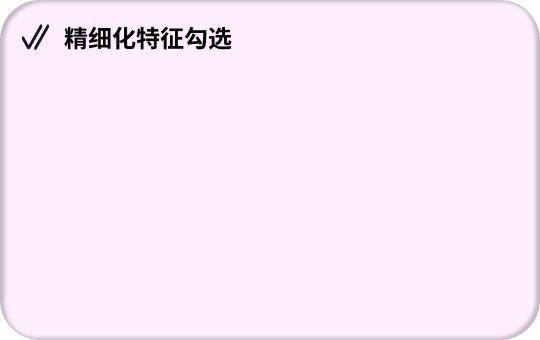
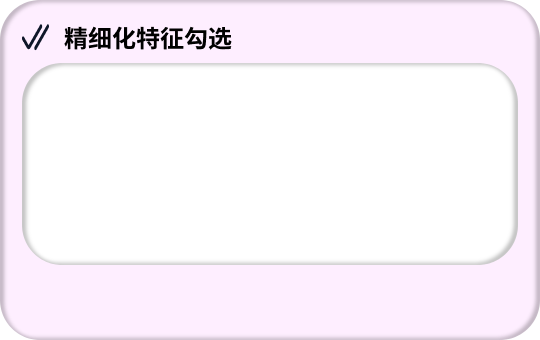
修改

diff --git a/core/UI/panel/extraction_panel.py b/core/UI/panel/extraction_panel.py
@@ -150,7 +150,7 @@ class FeatureExtractionPanel(tk.Frame):
         self.file_path_text_id = self.canvas.create_text(
             518 + self.offset_x, 31 + 55//2,
             text="",
-            font=("微软雅黑", 11),
+            font=("Segoe UI", 11, "bold"),
             fill="#333333",
             anchor="w",
             width=840
@@ -176,7 +176,7 @@ class FeatureExtractionPanel(tk.Frame):
         self.status_text_id = self.canvas.create_text(
             869 + 553//2 + self.offset_x, 400 + 129//2,
             text="请上传数据文件...",
-            font=("微软雅黑", 12),
+            font=("Segoe UI", 12, "bold"),
             fill="#333333",
             width=500,
             anchor="center"
@@ -261,8 +261,8 @@ class FeatureExtractionPanel(tk.Frame):
         self.check_canvas.create_window((0 + self.offset_x, 0), window=self.check_frame, anchor="nw", tags="inner_frame")
 
         # 将 Canvas 和滚动条嵌入主 Canvas
-        self.canvas.create_window(320 + self.offset_x, 256, window=self.check_canvas, anchor="nw", width=440, height=200)
-        self.canvas.create_window(320 + self.offset_x + 440, 256, window=self.check_scrollbar, anchor="nw", width=20, height=200)
+        self.canvas.create_window(331 + self.offset_x, 268, window=self.check_canvas, anchor="nw", width=462, height=166)
+        self.canvas.create_window(331 + self.offset_x + 440, 268, window=self.check_scrollbar, anchor="nw", width=20, height=166)
 
         # 绑定内部 Frame 大小变化以更新滚动区域
         def configure_inner_frame(event):
@@ -274,22 +274,45 @@ class FeatureExtractionPanel(tk.Frame):
         self.check_frame.grid_columnconfigure(0, weight=1)
         self.check_frame.grid_columnconfigure(1, weight=1)
 
-
-
+        # 设置 ttk 样式，使 Treeview 使用 Segoe UI 字体
+        style = ttk.Style()
+        style.theme_use('vista')  # 使用 clam 主题以支持自定义字体
         # ============ 结果表格 ============
-        tree_frame = tk.Frame(self.canvas)
+        # ============ 结果表格（带样式） ============
+        style.configure("Treeview",
+                        background="#ffffff",
+                        foreground="#333333",
+                        fieldbackground="#ffffff",
+                        borderwidth=0,
+                        relief="flat",
+                        font=("Segoe UI", 10, "bold"),  # 内容字体
+                        rowheight=28)  # 行高
+        style.map('Treeview', background=[('selected', '#e0f0ff')])  # 选中行淡蓝色
+        style.configure("Treeview.Heading",
+                        background="#f5f5f5",
+                        foreground="#333333",
+                        font=("Segoe UI", 11, "bold"),
+                        relief="flat")
+        style.map("Treeview.Heading", background=[('active', '#e8e8e8')])
+
+        # 创建表格
+        tree_frame = tk.Frame(self.canvas, borderwidth=0, highlightthickness= 0)
         columns = ("Name", "Value")
         self.tree = ttk.Treeview(tree_frame, columns=columns, show="headings", height=12)
         self.tree.heading("Name", text="特征名称")
         self.tree.heading("Value", text="特征数值")
-        self.tree.column("Name", width=400)
-        self.tree.column("Value", width=300)
+        self.tree.column("Name", width=450, anchor="center")  # 名称左对齐
+        self.tree.column("Value", width=450, anchor="center")  # 数字居中
+
         scrollbar = ttk.Scrollbar(tree_frame, orient="vertical", command=self.tree.yview)
         self.tree.configure(yscrollcommand=scrollbar.set)
         self.tree.pack(side="left", fill="both", expand=True)
         scrollbar.pack(side="right", fill="y")
-        # 嵌入Canvas：从 (320,580) 到 (1070,800) 宽750高220
-        self.canvas.create_window(380 + self.offset_x, 620, window=tree_frame, anchor="nw", width=850, height=350)
+
+        # 嵌入Canvas
+        self.canvas.create_window(380 + self.offset_x, 620, window=tree_frame, anchor="nw",
+                                  width=850, height=350)
+        self.canvas.create_window(380 + self.offset_x, 620, window=tree_frame, anchor="nw", width=950, height=350)
 
         # ============ 提取按钮 Process.png ============
         # 坐标 (600,464)，尺寸 211x55
@@ -399,7 +422,7 @@ class FeatureExtractionPanel(tk.Frame):
 
         if not modality or modality not in FEATURE_MAP:
             label = tk.Label(self.check_frame, text="请先选择有效模态", bg="#ffffff",
-                             font=("微软雅黑", 12), fg="#666666")
+                             font=("Segoe UI", 12, "bold"), fg="#666666")
             label.grid(row=0, column=0, columnspan=2, sticky="ew")
             return
 
@@ -413,7 +436,7 @@ class FeatureExtractionPanel(tk.Frame):
             var = tk.BooleanVar(value=True)
             self.checkbox_vars[feat_key] = var
             chk = tk.Checkbutton(self.check_frame, text=feat_desc, variable=var,
-                                 bg="#ffffff", font=("微软雅黑", 10),
+                                 bg="#ffffff", font=("Segoe UI", 10, "bold"),
                                  activebackground="#ffffff", selectcolor="white",
                                  wraplength=200)  # 自动换行适应列宽
             chk.grid(row=row, column=col, sticky="w", padx=5, pady=2)
